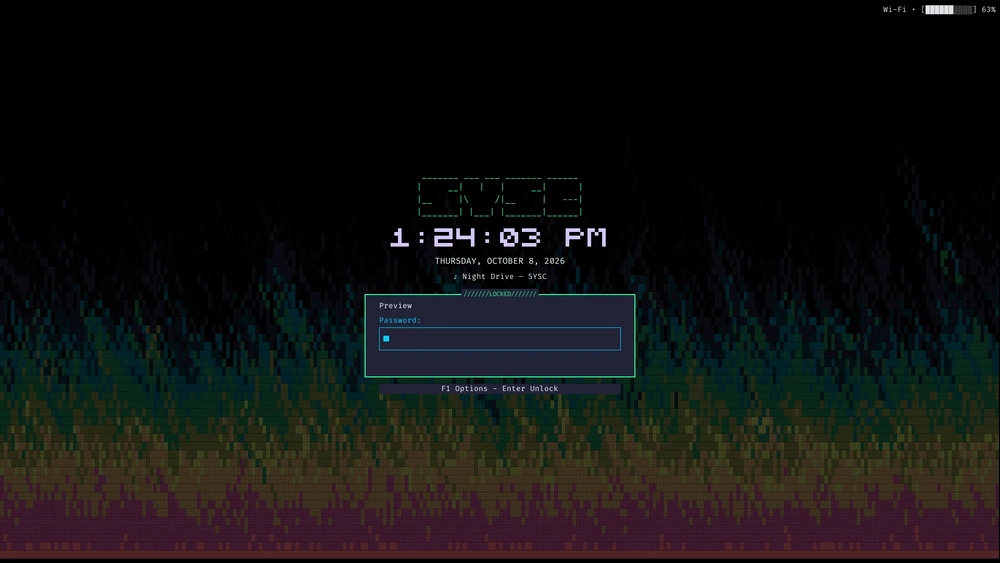
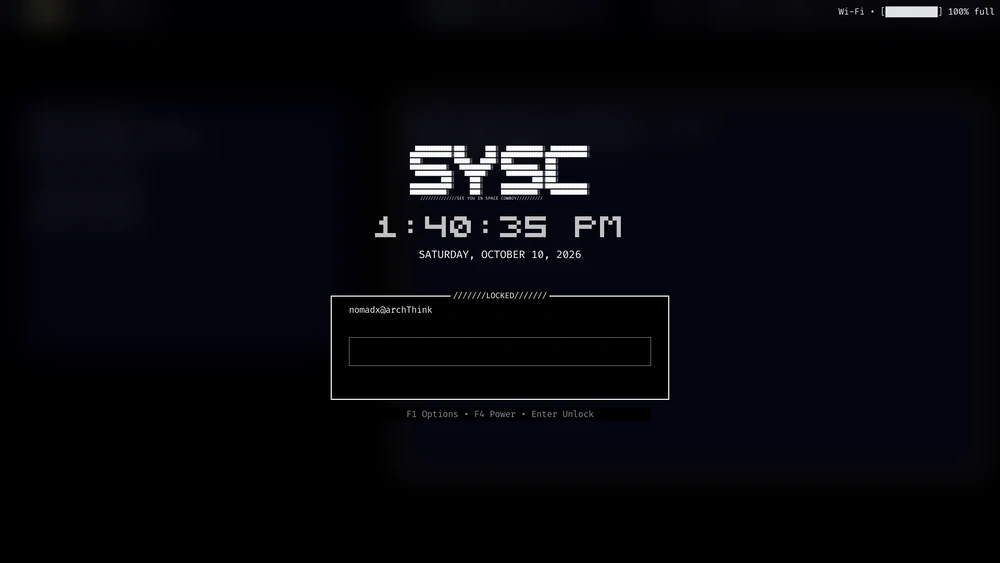
docs: show the real lock screen on the landing page and lock docs

diff --git a/README.md b/README.md
@@ -20,7 +20,7 @@ https://github.com/user-attachments/assets/7cadf7b9-6fe5-4d53-b7d6-757e4082b68a
 <table>
   <tr>
     <td align="center" valign="top"><a href="https://github.com/Nomadcxx/sysc-shell"><img src="assets/suite-shell.png" alt="The sysc-shell control centre" width="300"></a><br><b><a href="https://github.com/Nomadcxx/sysc-shell">sysc-shell</a></b><br><sub>Bars, panels, launcher and settings</sub></td>
-    <td align="center" valign="top"><a href="https://github.com/Nomadcxx/sysc-lock"><img src="assets/suite-lock.webp" alt="The sysc-lock lock screen with the fire effect" width="300"></a><br><b><a href="https://github.com/Nomadcxx/sysc-lock">sysc-lock</a></b><br><sub>Compositor-enforced lock screen</sub></td>
+    <td align="center" valign="top"><a href="https://github.com/Nomadcxx/sysc-lock"><img src="assets/suite-lock.webp" alt="The sysc-lock lock screen" width="300"></a><br><b><a href="https://github.com/Nomadcxx/sysc-lock">sysc-lock</a></b><br><sub>Compositor-enforced lock screen</sub></td>
     <td align="center" valign="top"><a href="https://github.com/Nomadcxx/sysc-terminal"><img src="assets/suite-terminal.webp" alt="sysc-terminal fire effect as the desktop wallpaper" width="300"></a><br><b><a href="https://github.com/Nomadcxx/sysc-terminal">sysc-terminal</a></b><br><sub>Live terminal-art wallpaper</sub></td>
   </tr>
 </table>
